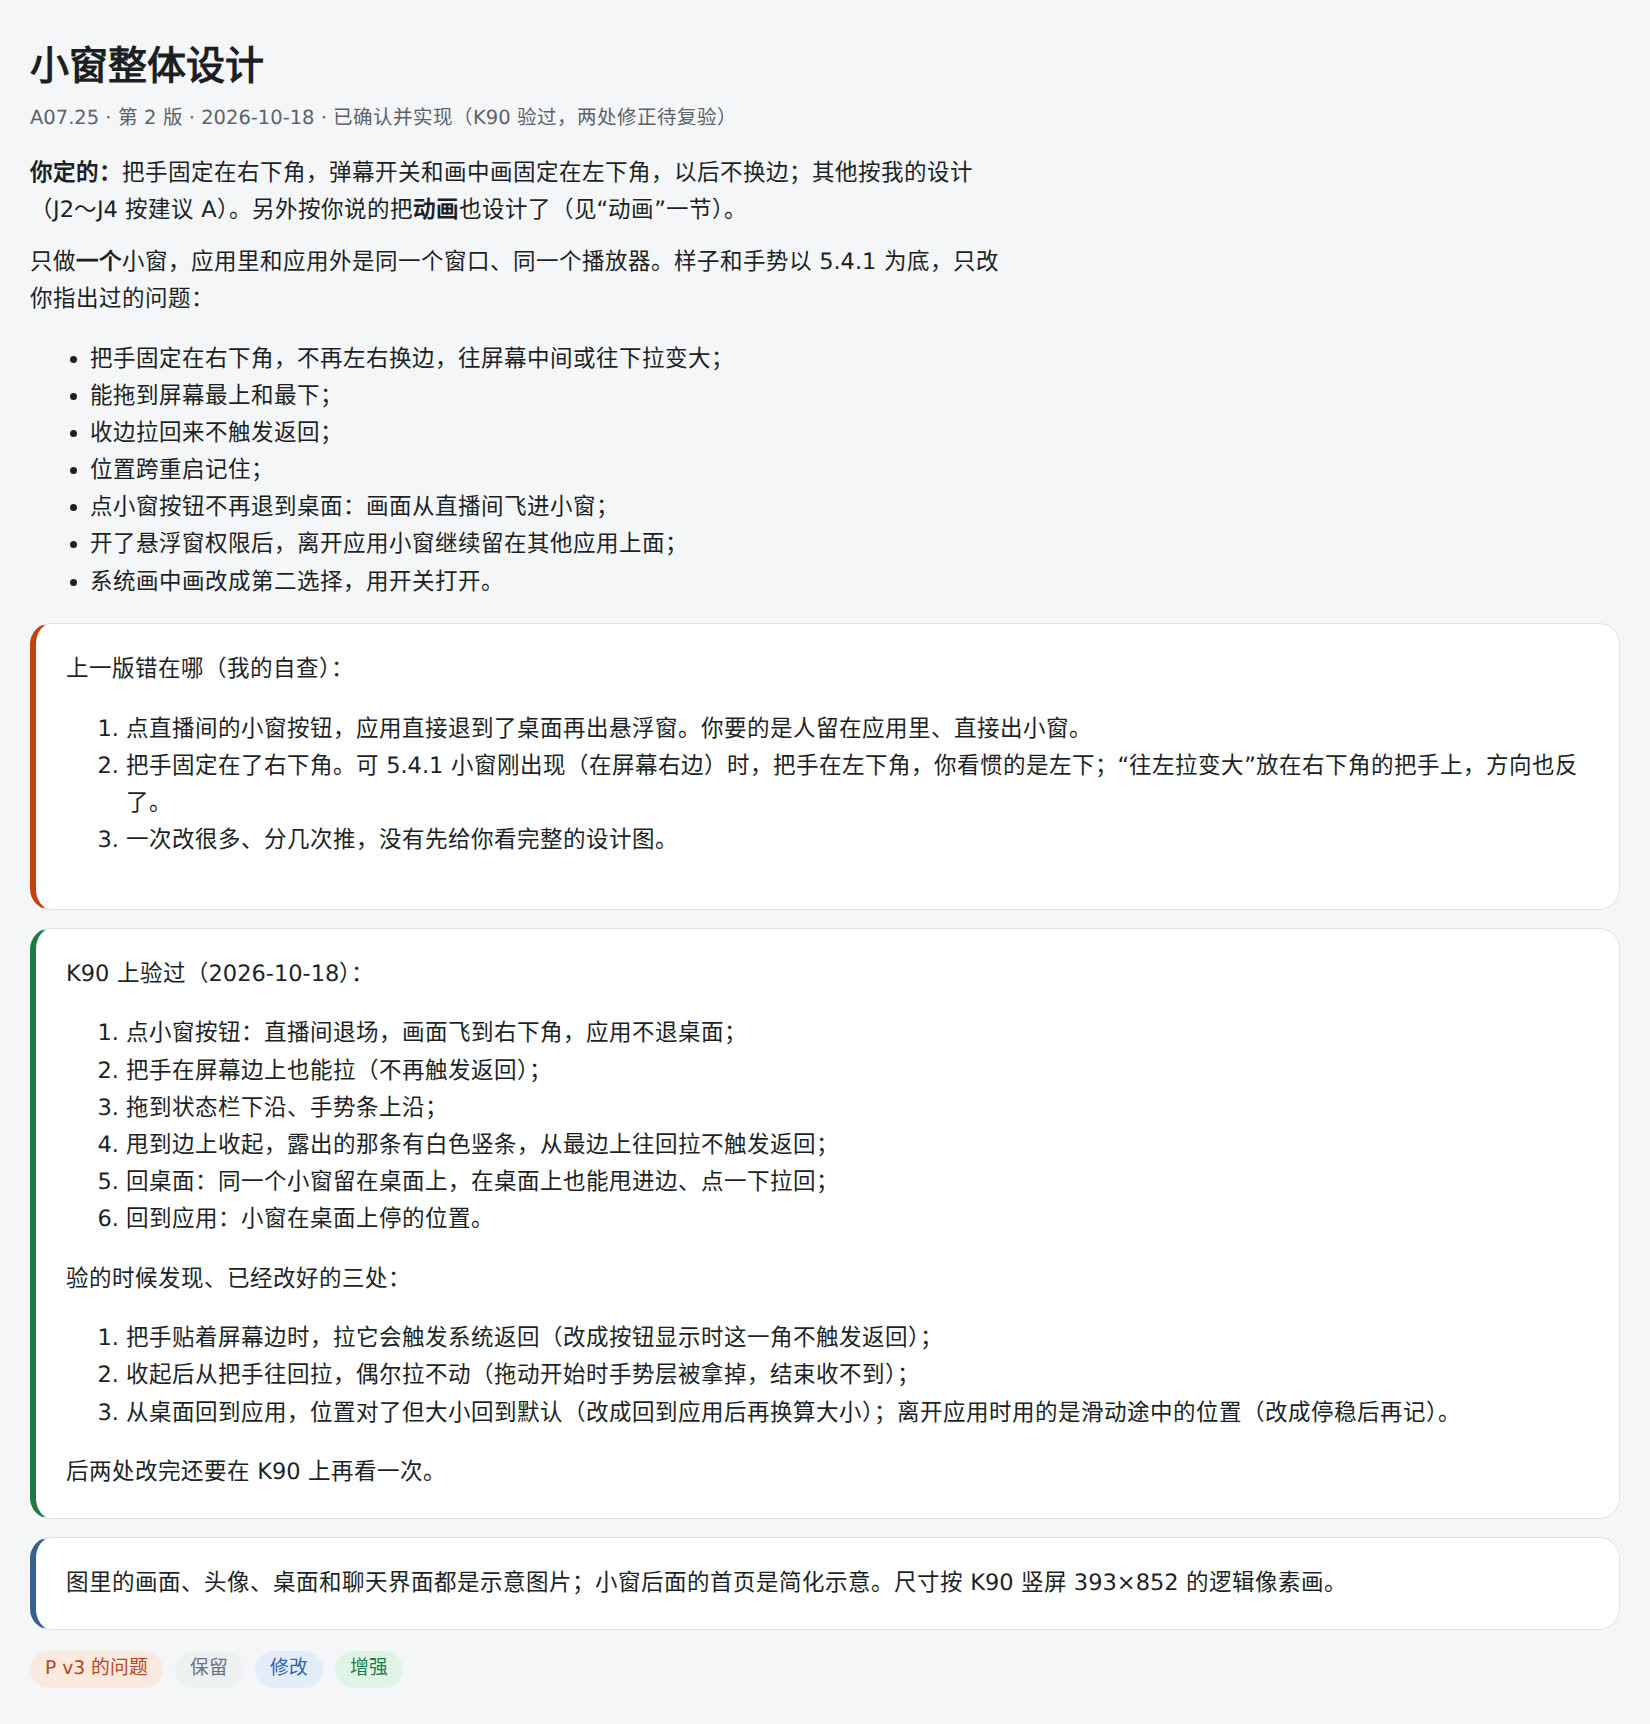
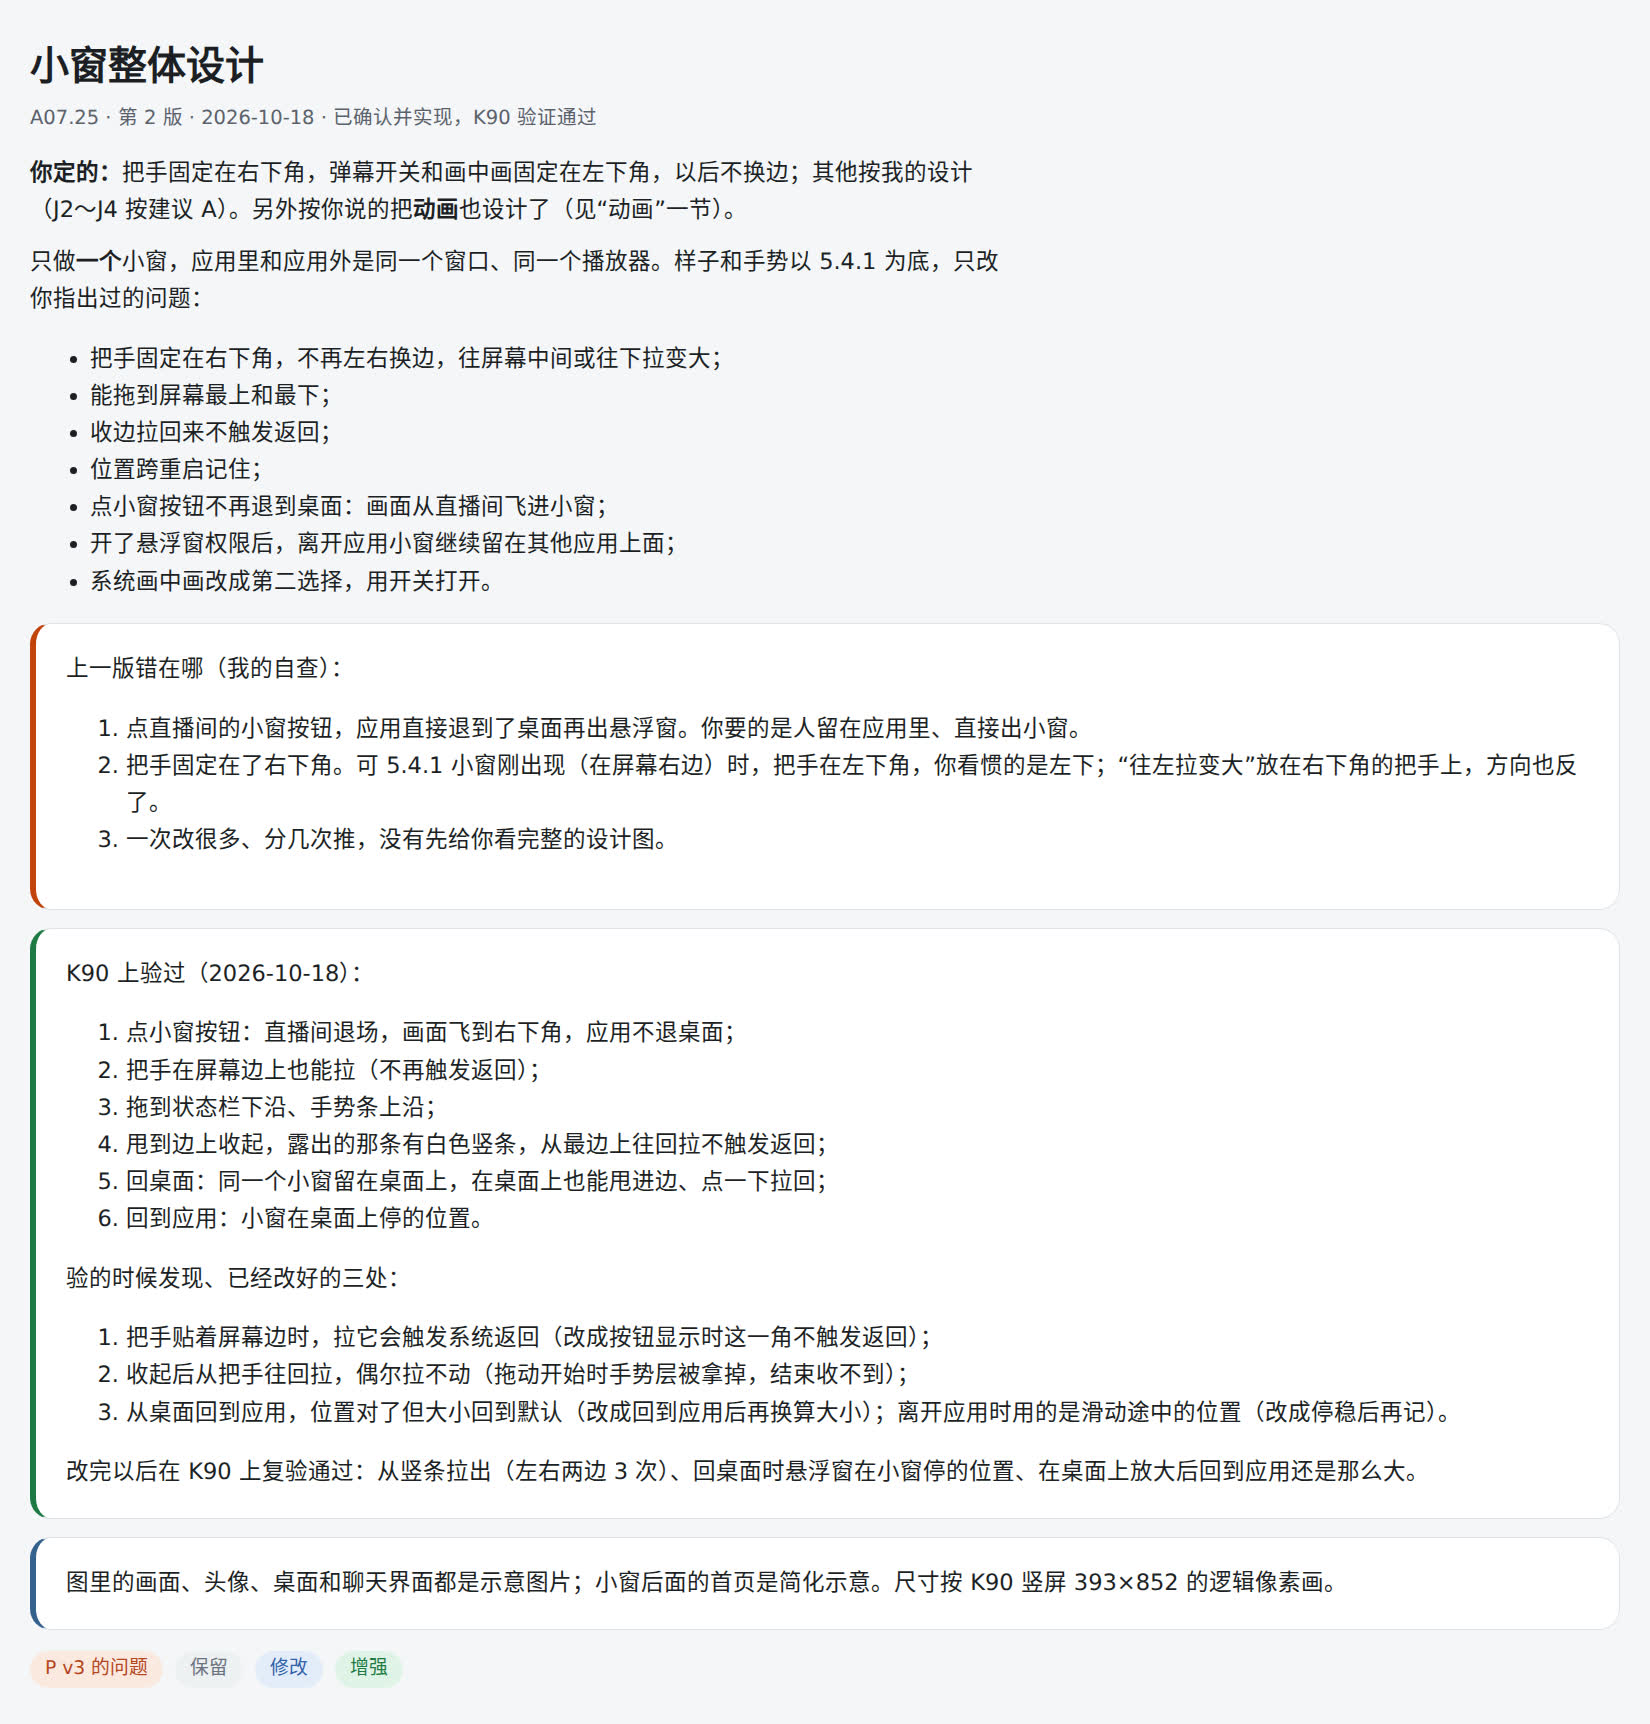
[A07.25] K90 recheck passed: pulled out by the handle, the floating window where the mini window was, its size kept on return
Thirteen steps on the K90 pass, three of them after the fixes in b52aa5d35;
the task is done.

Changed region(s): [[0.0309, 0.83, 0.8345, 0.8608], [0.34, 0.0615, 0.4327, 0.0922]]

diff --git a/docs/STATUS.md b/docs/STATUS.md
@@ -8,13 +8,13 @@
 
 `████████████████████` 99%
 
-386 个任务：开发中 5 · 待真机 2 · 完成 367 · 不做 12
+386 个任务：开发中 5 · 待真机 1 · 完成 368 · 不做 12
 
 ## 按档位（还没完成的任务）
 
 | 档位 | 进度 | 还剩 | 说明 |
 |---|---|---:|---|
-| 第一档 | `███████████████████░` 97% | 3 | 马上做：影响已发布的版本或天天用的功能 |
+| 第一档 | `███████████████████░` 97% | 2 | 马上做：影响已发布的版本或天天用的功能 |
 | 第二档 | `████████████████████` 100% | 1 | 应该做：把这一轮收尾 |
 | 第三档 | `████████████████████` 98% | 3 | 以后：新客户端、冷门和增强 |
 
@@ -22,7 +22,7 @@
 
 | 组 | 进度 | 完成 / 全部 | 进行中 | 下一个 |
 |---|---|---:|---|---|
-| [A 界面设计](A-界面设计/README.md) | `████████████████████` 99% | 105 / 108 | A18.1、A18.2 | — |
+| [A 界面设计](A-界面设计/README.md) | `████████████████████` 99% | 106 / 108 | A18.1、A18.2 | — |
 | [C 直播间](C-直播间/README.md) | `████████████████████` 100% | 8 / 8 | — | — |
 | [D 弹幕](D-弹幕/README.md) | `████████████████████` 100% | 51 / 51 | — | — |
 | [E 直播平台](E-直播平台/README.md) | `████████████████████` 98% | 54 / 55 | E01.6 | — |
@@ -59,13 +59,12 @@
 
 额度或时间不够时停下的任务；接手的人（或其他 AI）照“怎么接着做”继续。
 
-## 待真机（2）
+## 待真机（1）
 
 代码已经合并，还没在真机上逐项看过。看过后改成“完成”。
 
 | 任务 | 合并日期 | 提交 |
 |---|---|---|
-| [A07.25](A-界面设计/A07-直播间界面/A07.25-小窗整体设计/README.md) 小窗整体设计：应用里和应用外同一个小窗，把手固定、拖到最上最下、收边不触发返回、位置跨重启、点小窗按钮不退桌面、悬浮窗权限由用户开、系统画中画改成开关 | 2026-10-18 | — |
 | [K01.3](K-账号和登录/K01-账号和登录方式/K01.3-各平台官方登录/README.md) 各平台官方登录：在应用里打开斗鱼、虎牙、抖音、快手、YY、网易CC、Twitch、SOOP 自己的登录页，登录后自动保存 | 2026-10-16 | — |
 
 ## 下一步：第一档里还没开始的（0）
@@ -85,7 +84,7 @@
 
 | 日期 | 任务 | 状态 |
 |---|---|---|
-| 2026-10-18 | [A07.25](A-界面设计/A07-直播间界面/A07.25-小窗整体设计/README.md) 小窗整体设计：应用里和应用外同一个小窗，把手固定、拖到最上最下、收边不触发返回、位置跨重启、点小窗按钮不退桌面、悬浮窗权限由用户开、系统画中画改成开关 | 待真机 |
+| 2026-10-18 | [A07.25](A-界面设计/A07-直播间界面/A07.25-小窗整体设计/README.md) 小窗整体设计：应用里和应用外同一个小窗，把手固定、拖到最上最下、收边不触发返回、位置跨重启、点小窗按钮不退桌面、悬浮窗权限由用户开、系统画中画改成开关 | 完成 |
 | 2026-10-17 | [Y01.12](Y-发布和运营/Y01-版本签名和发布/Y01.12-5.4.1全平台发布/README.md) 5.4.1 全平台发布（Android、电视、Windows、Linux、macOS、iOS，构建号 5105）：Linux 启动修复，第一批 5.x 苹果安装包 | 完成 |
 | 2026-10-17 | [X05.1](X-多端客户端/X05-macOS/X05.1-macOS工程和构建/README.md) macOS 工程和构建：生成 macos/、沙盒和权限、Keychain 加密、桌面外壳，能在 Mac 上运行 | 完成 |
 | 2026-10-17 | [X04.1](X-多端客户端/X04-iOS和iPadOS/X04.1-苹果平台的构建和签名/README.md) iOS 和 iPadOS 工程和云构建：生成 ios/、权限说明、Keychain 加密，GitHub 构建未签名 IPA 和 TrollStore 包 | 完成 |

diff --git a/docs/A-界面设计/README.md b/docs/A-界面设计/README.md
@@ -106,7 +106,7 @@
 | [A04 尺寸和适配](A04-尺寸和适配/README.md) | 分辨率、高度分档、分屏、折叠屏、字号上限、触控区域。 | `████████████████████` 100% | 1 / 1 |
 | [A05 无障碍](A05-无障碍/README.md) | 读屏文字、键盘焦点、对比度。 | `████████████████████` 100% | 1 / 1 |
 | [A06 首页和全局](A06-首页和全局/README.md) | 手机首页、宽屏首页、启动页、全局弹窗。 | `████████████████████` 100% | 5 / 5 |
-| [A07 直播间界面](A07-直播间界面/README.md) | 竖屏、竖屏流和竖屏全屏、横屏全屏、平板分栏、控制层和手势、面板和小菜单、切换直播间、直播间状态、小窗。 | `████████████████████` 99% | 24 / 25 |
+| [A07 直播间界面](A07-直播间界面/README.md) | 竖屏、竖屏流和竖屏全屏、横屏全屏、平板分栏、控制层和手势、面板和小菜单、切换直播间、直播间状态、小窗。 | `████████████████████` 100% | 25 / 25 |
 | [A08 弹幕界面](A08-弹幕界面/README.md) | 弹幕列表、醒目留言、弹幕设置页、屏蔽页、画面弹幕的点按和长按、本地互动。 | `████████████████████` 100% | 15 / 15 |
 | [A09 浏览界面](A09-浏览界面/README.md) | 房间卡片、热门、关注、分区、分区房间、搜索、网页搜索、观看历史、标签管理。 | `████████████████████` 100% | 13 / 13 |
 | [A10 录制界面](A10-录制界面/README.md) | 录制中心、录制设置、录制按钮和各处的录制状态图形。 | `████████████████████` 100% | 3 / 3 |
@@ -119,11 +119,10 @@
 | [A17 电视界面](A17-电视界面/README.md) | 电视设计系统和通用组件、外壳、直播浏览、直播间、网络电视和影片、点播、音乐、壁纸、设置。 | `████████████████████` 100% | 9 / 9 |
 | [A18 苹果平台界面](A18-苹果平台界面/README.md) | iOS、iPadOS、macOS 的差异设计。 | `██████████████░░░░░░` 68% | 0 / 2 |
 
-## 还没完成的（3）
+## 还没完成的（2）
 
 | 任务 | 状态 | 档位 | 阶段 |
 |---|---|---|---|
-| [A07.25](A07-直播间界面/A07.25-小窗整体设计/README.md) 小窗整体设计：应用里和应用外同一个小窗，把手固定、拖到最上最下、收边不触发返回、位置跨重启、点小窗按钮不退桌面、悬浮窗权限由用户开、系统画中画改成开关 | 待真机 | 第一档 | 2/2 |
 | [A18.1](A18-苹果平台界面/A18.1-iOS和iPadOS差异设计/README.md) iOS 和 iPadOS 差异设计 | 开发中 | 第三档 | 2/4：下一阶段“Cmd 快捷键（c10）” |
 | [A18.2](A18-苹果平台界面/A18.2-macOS差异设计/README.md) macOS 差异设计 | 开发中 | 第三档 | 4/4 |
 

diff --git a/docs/TASKS.md b/docs/TASKS.md
@@ -90,7 +90,7 @@
 | A07.22 | 应用内小窗拖角改大小、两指缩放，设置里加“小窗大小”（接 V01.5） | 界面 | 第三档 | 完成 | — | [设计或说明](A-界面设计/A07-直播间界面/A07.22-小窗改大小和尺寸设置/README.md)、[任务书](A-界面设计/A07-直播间界面/A07.22-小窗改大小和尺寸设置/brief.md)、[记录](A-界面设计/A07-直播间界面/A07.22-小窗改大小和尺寸设置/record.md)、[真机验证](A-界面设计/A07-直播间界面/A07.22-小窗改大小和尺寸设置/verify.md) |
 | A07.23 | 横屏右上角菜单的样子升级，以及同类老样子的菜单和弹出层 | 界面 | 第一档 | 完成 | — | [设计或说明](A-界面设计/A07-直播间界面/A07.23-横屏右上角菜单升级/README.md)、[任务书](A-界面设计/A07-直播间界面/A07.23-横屏右上角菜单升级/brief.md)、[记录](A-界面设计/A07-直播间界面/A07.23-横屏右上角菜单升级/record.md)、[真机验证](A-界面设计/A07-直播间界面/A07.23-横屏右上角菜单升级/verify.md) |
 | A07.24 | 小窗重构和增强：拖到和手机一样宽的无级缩放、拖动顺滑、吸边和收边、单击显示双击回直播间、静音和弹幕开关、切到画中画；画中画从画面长出、跟随比例、标题和静音 | 界面 | 第一档 | 完成 | 4/4 | [设计或说明](A-界面设计/A07-直播间界面/A07.24-小窗重构和增强/README.md)、[任务书](A-界面设计/A07-直播间界面/A07.24-小窗重构和增强/brief.md)、[记录](A-界面设计/A07-直播间界面/A07.24-小窗重构和增强/record.md)、[真机验证](A-界面设计/A07-直播间界面/A07.24-小窗重构和增强/verify.md) |
-| A07.25 | 小窗整体设计：应用里和应用外同一个小窗，把手固定、拖到最上最下、收边不触发返回、位置跨重启、点小窗按钮不退桌面、悬浮窗权限由用户开、系统画中画改成开关 | 界面 | 第一档 | 待真机 | 2/2 | [设计或说明](A-界面设计/A07-直播间界面/A07.25-小窗整体设计/README.md)、[记录](A-界面设计/A07-直播间界面/A07.25-小窗整体设计/record.md)、[真机验证](A-界面设计/A07-直播间界面/A07.25-小窗整体设计/verify.md)、[评审页](A-界面设计/A07-直播间界面/A07.25-小窗整体设计/page/01-说明.jpg) |
+| A07.25 | 小窗整体设计：应用里和应用外同一个小窗，把手固定、拖到最上最下、收边不触发返回、位置跨重启、点小窗按钮不退桌面、悬浮窗权限由用户开、系统画中画改成开关 | 界面 | 第一档 | 完成 | 2/2 | [设计或说明](A-界面设计/A07-直播间界面/A07.25-小窗整体设计/README.md)、[记录](A-界面设计/A07-直播间界面/A07.25-小窗整体设计/record.md)、[真机验证](A-界面设计/A07-直播间界面/A07.25-小窗整体设计/verify.md)、[评审页](A-界面设计/A07-直播间界面/A07.25-小窗整体设计/page/01-说明.jpg) |
 
 ### [A08 弹幕界面](A-界面设计/A08-弹幕界面/README.md)
 

diff --git a/docs/A-界面设计/A07-直播间界面/A07.25-小窗整体设计/verify.md b/docs/A-界面设计/A07-直播间界面/A07.25-小窗整体设计/verify.md
@@ -10,8 +10,10 @@
 | 4 | 拖到最上、最下 | 到状态栏下沿；到手势条上沿，盖住底部导航 | 通过 |
 | 5 | 甩到右边 | 收起，露出约 56，有白色竖条 | 通过 |
 | 6 | 从最边上往回拉 | 拉出来，不触发返回 | 通过 |
-| 7 | 从竖条往回拉 | 拉出来 | 偶尔拉不动；改后待复验 |
-| 8 | 小窗开着时按 Home | 同一个小窗留在桌面上，大小相同，接着播 | 通过；位置是滑动途中的，改后待复验 |
+| 7 | 从竖条往回拉 | 拉出来 | 偶尔拉不动；改后复验通过（左右两边共 3 次） |
+| 8 | 小窗开着时按 Home | 同一个小窗留在桌面上，同样位置和大小，接着播 | 位置是滑动途中的；改后复验通过（应用里和桌面上都在 48,2026，672×378） |
 | 9 | 桌面上甩到右边、点露出的那条 | 收起、点一下拉回 | 通过 |
-| 10 | 从桌面回到应用 | 小窗在桌面上停的位置、同样大小 | 位置对、大小回到默认；改后待复验 |
+| 10 | 从桌面回到应用 | 小窗在桌面上停的位置、同样大小 | 大小回到默认；改后复验通过（桌面上拉把手放大到 923×519，回到应用 923 宽、同位置） |
 | 11 | 点 ✕ | 先缩小淡出再停 | 通过 |
+| 12 | 强制停止后重开、点小窗按钮 | 小窗在上次的位置 | 通过 |
+| 13 | 桌面上拉右下角把手 | 往屏幕中间长 | 通过（左半边的窗口往右长） |

diff --git a/docs/A-界面设计/A07-直播间界面/A07.25-小窗整体设计/README.md b/docs/A-界面设计/A07-直播间界面/A07.25-小窗整体设计/README.md
@@ -174,4 +174,4 @@
 - 应用外（c8～c12、M10）：`android/.../FloatingOverlay.kt`（同一个引擎挪到悬浮窗；松手贴边、甩进边收起、点露出的那条拉回、把手、两指缩放、排除返回手势、离开时把位置和大小交回应用），`lib/platform/overlay_window.dart`。
 - 设置：键 `autoPipOnLeave`（文字改成“离开应用时自动小窗”）、新键 `useSystemPip`（老用户开过自动画中画的升级时自动打开，`keepPictureInPicture`）、`floatWindowPosition`、`floatOverlayTipShown`（内部）；15 种语言。
 - 撤回前的实现（`bd4096bf9` 等）里验证过的部分照用，和这版设计不同的地方都改掉了：小窗按钮不再退到桌面，悬浮窗跟出去不再看“自动小窗”开关，小窗上的画中画按钮只开系统画中画，把手和按钮按 J1。
-- 测试和真机见 [record.md](record.md)、[verify.md](verify.md)。
+- 测试和真机见 [record.md](record.md)、[verify.md](verify.md)：K90 上 13 项都通过（其中 3 项是改了以后复验的）。
